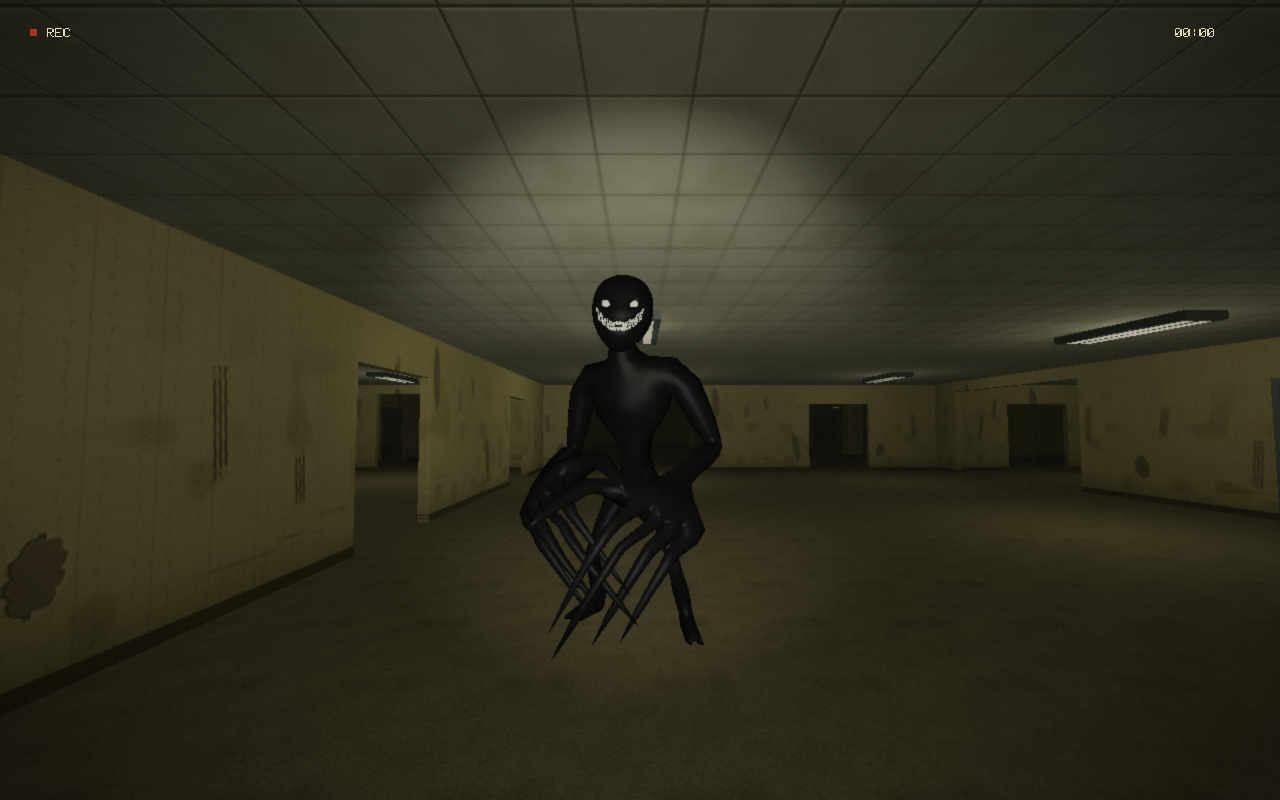
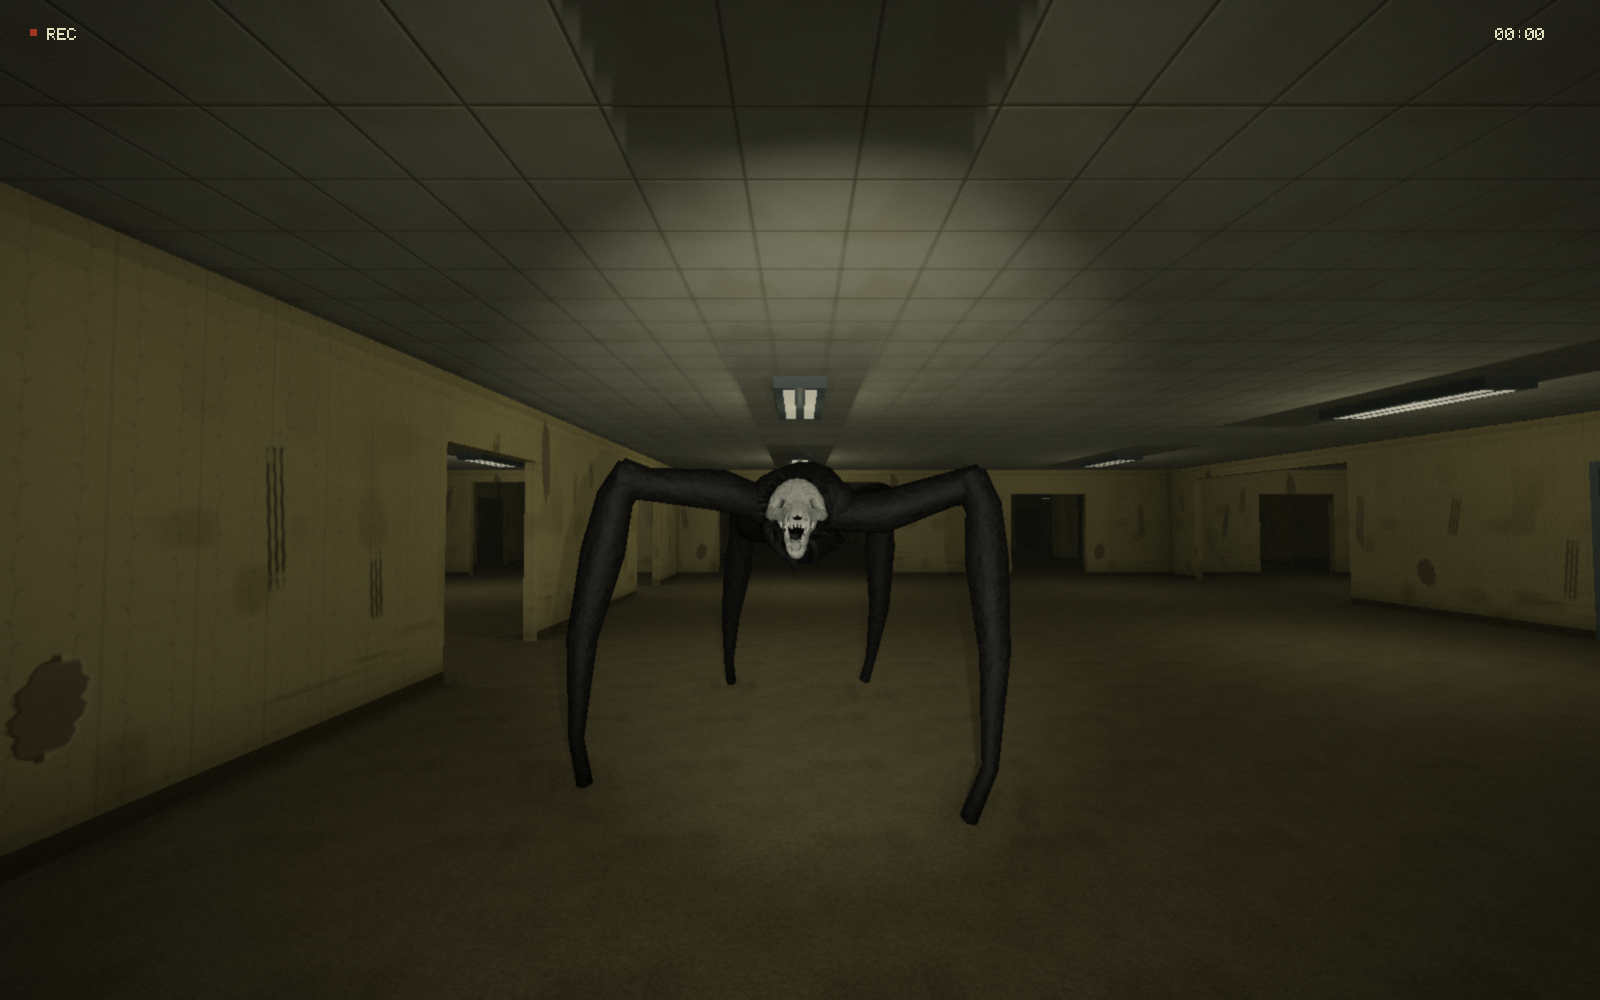
Replace README preview with current Aranea Membri screenshot

diff --git a/README.md b/README.md
@@ -2,7 +2,9 @@
 
 An effectively endless, connected yellow interior in **C++17 and OpenGL 3.3 core** for the Computer Graphics Fundamentals project. Explore worn rooms, repeating corridors and open halls with smooth first-person controls, stamina, interactive doors and spatial sound. One four-legged Aranea Membri creature wanders the level, hears movement and chases when it detects you. Break contact, hide and follow optional clues toward an exit.
 
-![In-game view](assets/preview.png)
+![Aranea Membri in-game](assets/preview.png)
+
+*The current four-legged Aranea Membri, captured in-game.*
 
 ## Aranea audio update — 13 October 2026
 
